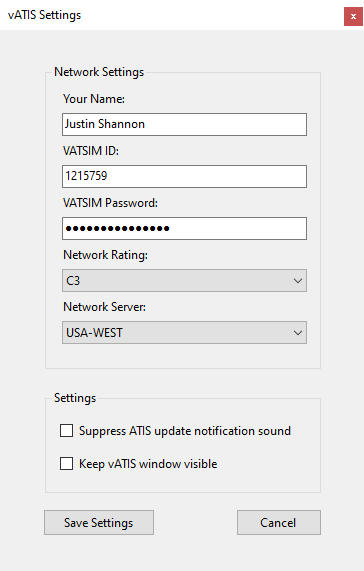
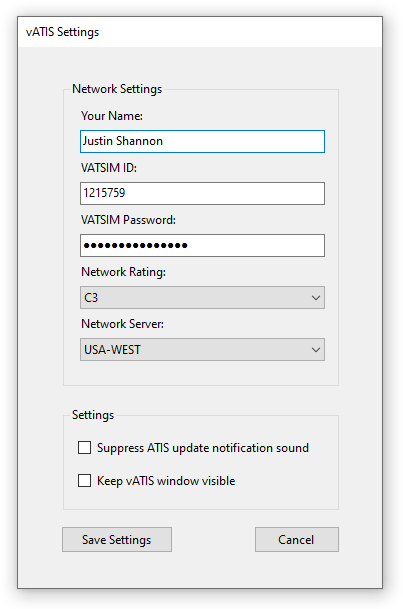
Update to reflect latest client changes

diff --git a/docs/client.md b/docs/client.md
@@ -1,6 +1,6 @@
 ## System Requirements
-* Windows 10
-* 200 MB  free disk space on the drive where application data is stored (usually C:)
+* Windows 10 64-bit (or newer)
+* 200 MB free disk space on the drive where application data is stored (usually C:)
 
 ## Installation
 
@@ -41,23 +41,25 @@ You can export a Profile by highlighting the Profile name in the list and clicki
 
 <span class="circle">3</span> The current Zulu (UTC) time.
 
-<span class="circle">4</span> The Composites associated with the current Profile. If the ATIS is connected and actively transmitting, the ATIS letter will be displayed next to the station identifier in cyan colored letters. The ATIS letter will blink yellow if there is a new update. The ATIS letter will disappear if the ATIS is not connected to the network.
+<span class="circle">4</span> Hides the main vATIS window and opens the "Mini Display" window.
 
-<span class="circle">5</span> The current ATIS letter. Left-click the ATIS letter to increment to the next letter in sequence. Right-click to go back to the previous letter.
+<span class="circle">5</span> The Composites associated with the current Profile. If the ATIS is connected and actively transmitting, the ATIS letter will be displayed next to the station identifier in cyan colored letters. The ATIS letter will blink yellow if there is a new update. The ATIS letter will disappear if the ATIS is not connected to the network.
 
-<span class="circle">6</span> The current METAR report.
+<span class="circle">6</span> The current ATIS letter. Left-click the ATIS letter to increment to the next letter in sequence. Right-click to go back to the previous letter.
 
-<span class="circle">7</span> The current wind and pressure setting from the METAR report.
+<span class="circle">7</span> The current METAR report.
 
-<span class="circle">8</span> A free-form text field used to define current [Airport Conditions](client?id=airport-conditions), such as active runways, approaches in use, etc.
+<span class="circle">8</span> The current wind and pressure setting from the METAR report.
 
-<span class="circle">9</span> A free-form text field used to define [NOTAM](client?id=notams) messages, if any.
+<span class="circle">9</span> A free-form text field used to define current [Airport Conditions](client?id=airport-conditions), such as active runways, approaches in use, etc.
 
-<span class="circle">10</span> Manually [Voice Record an ATIS](client?id=manual-voice-recorded-atis) using a microphone device.
+<span class="circle">10</span> A free-form text field used to define [NOTAM](client?id=notams) messages, if any.
 
-<span class="circle">11</span> A dropdown list of all saved [Presets](client?id=presets) for the Composite.
+<span class="circle">11</span> Manually [Voice Record an ATIS](client?id=manual-voice-recorded-atis) using a microphone device.
 
-<span class="circle">12</span> This button is used to Connect or Disconnect the ATIS from the network.
+<span class="circle">12</span> A dropdown list of all saved [Presets](client?id=presets) for the Composite.
+
+<span class="circle">13</span> This button is used to Connect or Disconnect the ATIS from the network.
 
 ## Settings
 
@@ -67,59 +69,29 @@ The **Suppress ATIS update notification sound** will disable the aural notificat
 
 The **Keep vATIS window visible** option will keep the vATIS window visible (on top) if checked.
 
-![Settings](media/SettingsWindow.png ':size=571 :class=img-border')
+![Settings](media/SettingsWindow.png ':size=609')
 
 ## Profile Configuration
 
-![Profile Configuration](media/ProfileConfiguration.png ':size=493 :class=img-border')
+![Profile Configuration](media/ProfileConfiguration.png ':size=602')
 
 The Profile Configuration window is where you can add, modify, or delete Composites. The left sidebar is a list of all Composites added to the current Profile. Select a Composite from the list to change its settings. Additionally, you can click the **Manage Composite** button to Copy, Rename or Delete the Composite. 
 
 You can import a legacy vATIS profile (.gz file) by clicking the **Manage Composite** button and choosing the "Import" action. This will import the legacy profile as a new Composite.
 
-!>**During the testing period, vATIS will be limited to 4 Composites per Profile. This will be increased in the future.**
+!>**A maximum of 15 Composites can be added to a single Profile.**
 
-#### Presets
+#### General
 
-The **Presets** tab is where you can Add, Copy, Rename or Delete Presets. The textbox below the dropdown list is the ATIS template. When an ATIS is created, the variables will be replaced with actual data. If the Composite is configured to use Text to Speech, the template text will be synthesized and transmitted.
+![General Configuration](media/TabGeneral.png ':size=332')
 
-!>**NOTE:** "Advise on initial contact, you have information X" will be automatically appended to the ATIS if the facility identifier begins with K or P (US airports). This will need to be manually added to the ATIS template for non-US ATISs.
-
-The following variables are available to use in the ATIS template:
-
-|Variable|Definition|
-|---|---|
-|`[FACILITY]`|The ATIS facility name (i.e. airport name)|
-|`[ATIS_CODE]` or `[ATIS_LETTER]`|The current ATIS letter|
-|`[WX]` OR `[FULL_WX_STRING]`|Inserts the full parsed weather string |
-|`[TIME]` or `[OBS_TIME]`|The METAR observation time|
-|`[WIND]` or `[SURFACE_WIND]`|The reported surface wind|
-|`[RVR]`|The runway visibility range (if any)|
-|`[VIS]` or `[PREVAILING_VISIBILITY]`|The prevailing visibility|
-|`[PRESENT_WX]` or `[PRESENT_WEATHER]`|The present weather conditions (e.g. rain, snow, hail, etc.)|
-|`[CLOUDS]`|The reported cloud conditions|
-|`[TEMP]`|The reported temperature|
-|`[DEW]`|The reported dew point temperature|
-|`[PRESSURE]`|The reported pressure value|
-|`[ARPT_COND]`|Inserts the text from the Airport Conditions free-form text field, followed by any selected static text options|
-|`[NOTAMS]`|Inserts the text from the NOTAMS free-form text field, followed by any selected static text options|
-|`[TL]`|Inserts the transition level, based on the ranges configured in **Transition Level** configuration tab (non-US ATIS only).|
-
-#### Contractions
-
-The **Contractions** tab is where you can define custom contractions. If you specify a contraction that already exists in the [default contractions](client?id=default-contractions) list, then it will be overridden with your newly created definition.
-
-Contractions are useful in tricking the text to speech synthesizer to pronounce words or acronyms differently.
-
-![Contractions](media/TabContractions.png ':size=390 :class=img-border')
-
-#### Configuration
-
-![Contractions](media/TabConfiguration.png ':size=390 :class=img-border')
-
-The **Configuration** tab contains miscellaneous configuration options. These options are global to the Composite and are shared with each Preset.
+The **General** tab contains general configuration options. These options are global to the Composite and are shared with each Preset.
 
 **Frequency** The VHF frequency of the ATIS station.
+
+**ATIS Type** The type of connection for this ATIS. If you choose Departure or Arrival, the callsign will include \_D\_ or \_A\_ (e.g. KATL_D_ATIS).
+
+**Code Range** Allows you to specify the ATIS code range for Departure or Arrival ATIS.
 
 **Official Observation Time** If enabled, if a METAR observation time does not match the specified observation time value, the word "SPECIAL" will be appended to the ATIS.
 
@@ -136,17 +108,81 @@ The **Configuration** tab contains miscellaneous configuration options. These op
   "Facility": "KLAX",
   "Preset": "NOISE",
   "AtisLetter": "L",
+  "AtisType": "combined",
   "AirportConditions": "ILS APP IN PROG RWY 6R OR VCTR FOR VIS APP WILL BE PROVIDED. OPPOSITE DRCTN TFC DEPTG RWY 25R.",
   "Notams": "ASDE-X SYSTEM IN USE. ACTIVATE TRANSPONDER WITH MODE C ON ALL TWYS AND RWYS. READBACK ALL RWY HOLD SHORT INSTRUCTIONS.",
   "Timestamp": "04/17/2022 15:39:59"
+  "Version": "4.0.0"
 }
 ```
+
+#### Formatting
+
+![Formatting Configuration](media/TabFormatting.png ':size=332')
+
+The Formatting tab allows you to further customize the format of the ATIS. The formatting options are saved to the Composite configuration and are shared with each Preset.
+
+* **Format ATIS using FAA format**: When this option is checked, the ATIS will be formatted using the FAA format. You can uncheck this option to format the ATIS using the standard international/ICAO formatting.
+
+* **Prepend "Notices to Airmen/Air Missions" to spoken NOTAMs**: If this option is checked, the words "Notices to Airmen" or "Notices to Air Missions" (for FAA formatting), will be appended to the NOTAMs text in the spoken voice ATIS.
+
+* **Prepend "flight level" to the spoken transition level altitude**: If this option is checked, the words "flight level" will be prepended to the transition level altitude in the spoken ATIS text (e.g. "transition level **flight level** seven zero").
+
+* **Append "meters/kilometers" to spoken prevailing visibility**: If this option is checked, the word "meters" or "visibility" will be appended to the prevailing visibility in the spoken voice ATIS.
+
+* **Convert cloud layer height to metric**: If this option is checked, the cloud layer height and unit will be converted from feet to meters.
+
+* **Use "decimal" terminology in spoken text**: If this option is checked, the word "decimal" will be used in place of "point" in spoken decimal numbers and frequencies.
+
+* **Prefix temperature/dewpoint with "plus"**: If this option is checked, temperature and dewpoint values will be prefixed with the word "plus" when spoken.
+
+* **Append "zulu" to ATIS observation time**: If this option is checked, the world "zulu" will be appended to the ATIS observation time when spoken.
+
+#### Presets
+
+The **Presets** tab is where you can Add, Copy, Rename or Delete Presets. The textbox below the dropdown list is the ATIS template. When an ATIS is created, the variables will be replaced with actual data. If the Composite is configured to use Text to Speech, the template text will be synthesized and transmitted.
+
+The following variables are available to use in the ATIS template. Variable names can be suffixed with `:VOX`, for example `[WX:VOX]` which will force vATIS to print the voice translated text instead of the raw text value in the text ATIS.
+
+|Variable|Definition|
+|---|---|
+|`[FACILITY]`|The ATIS facility name (i.e. airport name)|
+|`[ATIS_CODE]`, `[ATIS_LETTER]`, `[LETTER]`, `[ID]`|The current ATIS letter|
+|`[WX]` OR `[FULL_WX_STRING]`|Inserts the full parsed weather string |
+|`[TIME]` or `[OBS_TIME]`|The METAR observation time|
+|`[WIND]` or `[SURFACE_WIND]`|The reported surface wind|
+|`[RVR]`|The runway visibility range (if any)|
+|`[VIS]` or `[PREVAILING_VISIBILITY]`|The prevailing visibility|
+|`[PRESENT_WX]` or `[PRESENT_WEATHER]`|The present weather conditions (e.g. rain, snow, hail, etc.)|
+|`[CLOUDS]`|The reported cloud conditions|
+|`[TEMP]`|The reported temperature|
+|`[DEW]`|The reported dew point temperature|
+|`[PRESSURE]`|The reported pressure value|
+|`[PRESSURE_INHG]`|The reported pressure value represented in inHg|
+|`[PRESSURE_HPA]`|The reported pressure value represented in hPa|
+|`[TREND]`|TREND forecast from METAR|
+|`[ARPT_COND]`|Inserts the text from the Airport Conditions free-form text field, followed by any selected static text options|
+|`[NOTAMS]`|Inserts the text from the NOTAMS free-form text field, followed by any selected static text options|
+|`[TL]`|Inserts the transition level, based on the ranges configured in **Transition Level** configuration tab (non-US ATIS only).|
+|`[CLOSING]`|Inserts an FAA-styled closing statement to the text ATIS and voice ATIS.|
+
+#### Contractions
+
+The **Contractions** tab is where you can define custom contractions. If you specify a contraction that already exists in the [default contractions](client?id=default-contractions) list, then it will be overridden with your newly created definition.
+
+Contractions are useful for creating acronyms or for tricking the text to speech engine to pronounce words differently.
+
+![Contractions](media/TabContractions.png ':size=390 :class=img-border')
 
 #### Transition Level
 
 ![Transition Level](media/TabTransitionLevel.png ':size=390 :class=img-border')
 
-If the Composite is for a non-US airport (e.g. the airport identifier does not begin with a K or P), the Transition Level configuration tab will be shown. This table allows you to define a range of QNH values used to determine the transition level. The ATIS template variable **`[TL]`** can be used to populate the transition level in the ATIS. The variable will be read as "transition level flight level XX" by the voice synthesizer (where XX is the transition level based on the ranges defined). If the transition level cannot be determined, it will be read as "transition level not determined".
+If the Composite is for a non-US airport (e.g. the airport identifier does not begin with a K or P), the Transition Level configuration tab will be shown. This table allows you to define a range of QNH values used to determine the transition level. 
+
+The ATIS template variable **`[TL]`** can be used to populate the transition level in the ATIS. The variable will be read as "transition level (flight level) XX" by the voice synthesizer (where XX is the transition level based on the ranges defined). If the transition level cannot be determined, it will be read as "transition level not determined".
+
+A low and high QNH value is required for each transition level.
 
 ## Composites
 
@@ -160,27 +196,27 @@ When a new ATIS update is available, the vATIS client icon will flash in the Win
 
 ## Airport Conditions
 
-![Airport Conditions](media/AirportConditionDefinitions.png ':size=331 :class=img-border')
+![Airport Conditions](media/AirportConditionDefinitions.png ':size=369')
 
 In addition to the free-form Airport Conditions text, you can also define static messages that can be toggled on or off. This is useful for defining messages that you may frequently use but need to the ability to toggle them on or off. These messages are saved with the Composite, so they are available to use with any selected Preset.
 
 To create a new static message, click the ARPT COND text label above the free-form text box. A popup dialog (pictured above) will open allowing you to add, edit or delete existing messages. You can also reorder the messages by selected a message in the list and clicking the Up or Down button. The messages are presented in the ATIS in the order they appear (but only if the message is checked).
 
-**You must disconnect and reconnect the ATIS after making changes to the active static messages**. Alternatively, you can click the ATIS letter button to force a new ATIS.
+The **Include before free-form ARPT CONDs** checkbox allows you to prioritize the static messages before the free form text in the text and voice ATIS.
 
 ## NOTAMs
 
-![NOTAM Conditions](media/NotamDefinitions.png ':size=331 :class=img-border')
+![NOTAM Conditions](media/NotamDefinitions.png ':size=369')
 
 In addition to the free-form NOTAMS text, you can also define static messages that can be toggled on or off. This is useful for defining messages that you may frequently use but need to the ability to toggle them on or off. These messages are saved with the Composite, so they are available to use with any selected Preset.
 
 To create a new static message, click the NOTAMS text label above the free-form text box. A popup dialog (pictured above) will open allowing you to add, edit or delete existing messages. You can also reorder the messages by selected a message in the list and clicking the Up or Down button. The messages are presented in the ATIS in the order they appear (but only if the message is checked).
 
-**You must disconnect and reconnect the ATIS after making changes to the active static messages**. Alternatively, you can advance the ATIS letter to force a new ATIS to be created.
+The **Include before free-form NOTAMs** checkbox allows you to prioritize the static messages before the free form text in the text and voice ATIS.
 
 ## Manual Voice Recorded ATIS
 
-![Record ATIS](media/RecordATIS.png ':size=356 :class=img-border')
+![Record ATIS](media/RecordATIS.png ':size=389')
 
 vATIS allows you to manually record an ATIS in the instance where the real-world ATIS isn't digitalized, and you wish to simulate this on VATSIM.
 
@@ -188,7 +224,7 @@ To manually record an ATIS, the Composite must be configured to be voice recorde
 
 1. Connect the ATIS to the network by clicking the **CONNECT** button.
 2. Click the **RECORD ATIS** button. A dialog window (pictured above) will appear. Select your preferred microphone device and playback device (used to listen the recording before saving it).
-3. Click the **Start Recording** button to begin recording your ATIS. You can drag the recording window to the side so you can see the METAR and information behind it. When you are done recording, click the **Stop Recording** button.
+3. Click the **Start Recording** button to begin recording your ATIS. When you are done recording, click the **Stop Recording** button.
 4. You can optionally listen to the recording by clicking the **Listen** button.
 5. Once you are satisfied, click the **Save** button. The ATIS will begin transmitting on the network.
 
@@ -205,16 +241,13 @@ If you choose to download the update, vATIS will download the updated installer.
 You can use the following text parsing rules in the Airport Conditions and NOTAMs free-form textboxes.
 
 **Taxiways**<br/>
-To parse taxiway names, you must prepend the acronym **TWY** or **TWYS** in front of the identifier. For example, **`TWY E16`** would be read as "taxiway echo sixteen" by the voice synthesizer.
+To parse taxiway names, you must prepend the acronym **TWY** or **TWYS** in front of the identifier. For example, **`TWY E16`** would be spoken as "taxiway echo sixteen" by the voice synthesizer.
 
 **Runways**<br/>
-To parse runway names, you must prepend the acronym **RWY** or **RWYS** in front of the identifier. For example, **`RWY 25R`** would be read as "runway two five right" by the voice synthesizer.
+To parse runway names, you must prepend the acronym **RWY**, **RWYS**, **RUNWAY** or **RUNWAYS** in front of the identifier. For example, **`RWY 25R`** would be spoken as "runway two five right" by the voice synthesizer.
 
 **Numbers**<br/>
-To pronounce numbers in group format, prepend an **asterisk (\*)** followed by the number. For example, **`*5058`** would be read as "five thousand, fifty-eight" by the voice synthesizer. If the number should be pronounced as a negative value, append a dash after the asterisk. For example, **`*-8`** would be read as "minus eight".
-
-**Frequencies**<br/>
-To correctly read frequencies, they must be typed in the full MHz format. Only frequencies 100.000 to 199.999 MHz will be parsed. For example, **`127.65`** would be read as "one two seven point six five" by the voice synthesizer.
+To pronounce numbers in group format, prepend an **asterisk (\*)** followed by the number, or wrap the number in braces **`{}`**. For example, **`*5058`** (or **`{5058}`**) would be spoken as "five thousand, fifty-eight" by the voice synthesizer. If the number should be pronounced as a negative value, append a dash after the asterisk. For example, **`*-8`** would be spoken as "minus eight".
 
 **Airport Names**<br/>
 To parse airport identifiers to the airport name, prepend a **plus sign (+)** to the ICAO identifier. For example, **`+KLAX`** would be read as "Los Angeles International Airport" by the voice synthesizer.

diff --git a/docs/_sidebar.md b/docs/_sidebar.md
@@ -7,6 +7,8 @@
   - [Main Window](client?id=main-window)
   - [Settings](client?id=settings)
   - [Profile Configuration](client?id=profile-configuration)
+    - [General](client?id=general)
+    - [Formatting](client?id=formatting)
     - [Presets](client?id=presets)
     - [Contractions](client?id=contractions)
     - [Configuration](client?id=configuration)
